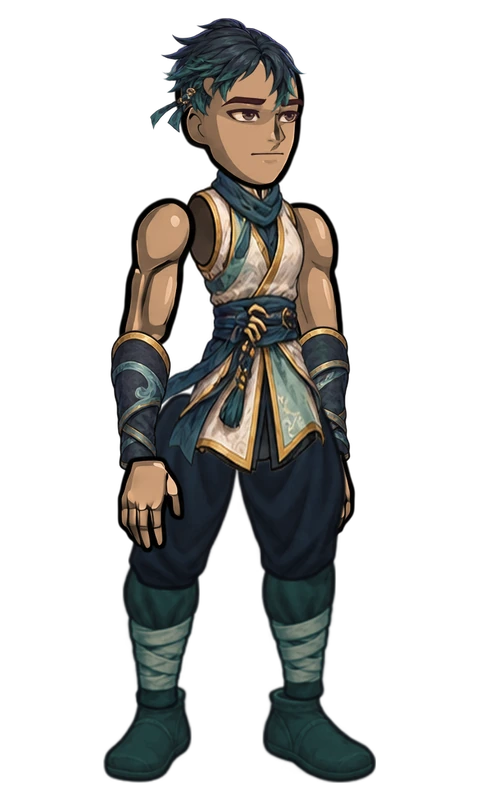
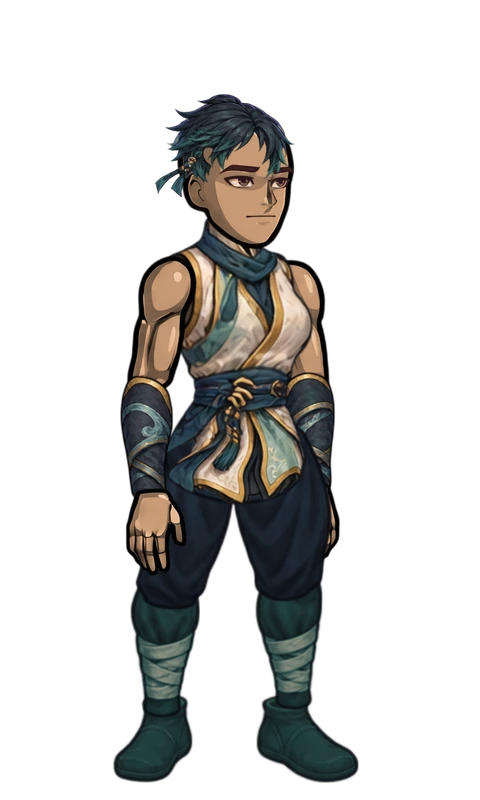
Corrige las proporciones de los doce representantes

Changed region(s): [[0.2188, 0.0, 0.7812, 1.0], [0.3125, 0.9688, 0.3438, 1.0]]

diff --git a/src/meta-ui.js b/src/meta-ui.js
@@ -1,7 +1,7 @@
 import { ENEMY_ACTIONS, ENEMY_ROSTER, EQUIPMENT, JUTSU_LIBRARY } from "./data.js?v=1.5.0"; import { ALL_MISSIONS, MISSIONS, SECONDARY_MISSIONS, STORY_SAGAS } from "./content/index.js?v=0.155.0";
 import { getDialogue, getMissionSceneDialogue } from "./dialogues.js?v=0.155.0";
 import { missionHasStep, missionState, missionStep, missionsForBoard, nextAvailableMission } from "./mission-system.js?v=0.155.0";
-import { LOCATION_CAST, NPCS, locationDialogue, npcByName, npcName } from "./npcs.js?v=0.173.0";
+import { LOCATION_CAST, NPCS, locationDialogue, npcByName, npcName } from "./npcs.js?v=0.174.0";
 import { DEBUG_CHECKPOINTS, abandonMissionProgress, actOnDoctorCipher, activeSaveSlot, affinityXpForElement, applyDebugCheckpoint, attributeTrainingLimit, cancelDoctorMission, chooseDoctorMissionRoute, chooseHideoutEntrance, completeDoctorMission, createCharacter, deleteSaveSlot, deliverBestiaryBook, derivedStats, isTechniqueLearned, levelUpReport, listSaveSlots, loadoutSlotsForLevel, markSecondaryMissionCompleted, masterIdForCharacter, normalizeSave, resetAttributes, resolveDoctorRiverPassage, selectMaster, selectNextAffinity, selectSaveSlot, spendAttribute, startDoctorMission, writeSave, xpForNextLevel } from "./save.js?v=0.171.0";
 import { createViewRuntime } from "./view-runtime.js?v=0.66.0";
 import { BASIC_ELEMENT_IDS, ELEMENTS, ELEMENT_RANK_LABELS, basicRequirements, canAccessElement, elementIcon, elementIconParts, elementName } from "./elements.js?v=0.20.0";

diff --git a/src/battle/scenes/battle-scene.js b/src/battle/scenes/battle-scene.js
@@ -1,6 +1,7 @@
 import { mountAccessibleBattleHud } from "../hud-accessibility.js?v=0.171.0";
 import { rememberCombatTexture } from "../combat-textures.js?v=1.0.0";
 import { upgradedTechnique } from "../../skills/progression.js?v=1.0.0";
+import { NPCS } from "../../npcs.js?v=0.174.0";
 import { queueTeleportObjects } from "../teleport-transition.js?v=1.2.0";
 import { clearSceneFilters, clearSceneParticles } from "../visual-resources.js?v=0.99.0";
 import { SEALS, BASE_ACTIONS, JUTSU_LIBRARY, ENEMY_ACTIONS, ENEMY_ROSTER } from "../../data.js?v=1.5.0";
@@ -116,7 +117,7 @@ export class BattleScene extends Phaser.Scene {
     if (missionStep(battleRuntime.activeMission, "choice")?.relicDecision) {
       if (!this.textures.exists("kagemori-investigation")) this.load.image("kagemori-investigation", SHARED_BATTLE_ASSETS.kagemori);
       const master = masterIdForCharacter(battleRuntime.activeSave.character);
-      if (!this.textures.exists(master)) this.load.image(master, `assets/modular/representatives/${master}.webp?v=1.0.0`);
+      if (!this.textures.exists(master)) this.load.image(master, NPCS[master].image);
     }
     // Texturas de combatientes generadas con el mismo SVG del Dojo.
     this.saveData = battleRuntime.activeSave;

diff --git a/src/battle/scenes/mission-epilogue-scene.js b/src/battle/scenes/mission-epilogue-scene.js
@@ -2,6 +2,7 @@ import { addNoticeText, mountSceneNotice } from "../scene-notices.js?v=0.173.0";
 import { BATTLE_ARENAS, HEIGHT, Phaser, WIDTH, battleRuntime } from "../runtime.js?v=0.91.0";
 import { stageVictory } from "../victory-transaction.js?v=0.95.0";
 import { rememberCombatTexture } from "../combat-textures.js?v=1.0.0";
+import { NPCS } from "../../npcs.js?v=0.174.0";
 
 export class MissionEpilogueScene extends Phaser.Scene {
   constructor() { super("epilogue"); }
@@ -12,7 +13,7 @@ export class MissionEpilogueScene extends Phaser.Scene {
     this.epilogueBackground = arena.texture;
     rememberCombatTexture(this, arena.texture);
     if (!this.textures.exists(arena.texture)) this.load.image(arena.texture, arena.file);
-    if (!this.textures.exists("sayo-kisaragi")) this.load.image("sayo-kisaragi", "assets/modular/representatives/sayo.webp?v=1.0.0");
+    if (!this.textures.exists("sayo-kisaragi")) this.load.image("sayo-kisaragi", NPCS.sayo.image);
   }
 
   create(data = {}) {

diff --git a/game.js b/game.js
@@ -1,4 +1,4 @@
-import { mountMetaUI } from "./src/meta-ui.js?v=0.173.0";
+import { mountMetaUI } from "./src/meta-ui.js?v=0.174.0";
 import { mountSaveRecovery } from "./src/ui/save-recovery.js?v=0.171.0";
 import { startCloudSaveSession } from "./src/save/cloud-session.js?v=0.171.0";
 import { mountCloudSaveStatus } from "./src/ui/meta/cloud-saves.js?v=0.171.0";
@@ -23,7 +23,7 @@ let gameLaunchRevision = 0;
 
 function loadBattleBundle() {
   if (!battleBundlePromise) battleBundlePromise = loadPhaser()
-    .then(() => import("./src/battle/bundle.js?v=0.173.0"))
+    .then(() => import("./src/battle/bundle.js?v=0.174.0"))
     .catch((error) => { battleBundlePromise = null; throw error; });
   return battleBundlePromise;
 }

diff --git a/src/battle/bundle.js b/src/battle/bundle.js
@@ -1,6 +1,6 @@
-import { KuroganeBattleScene as BattleScene } from "./scenes/kurogane-battle-scene.js?v=0.173.0";
+import { KuroganeBattleScene as BattleScene } from "./scenes/kurogane-battle-scene.js?v=0.174.0";
 import { MissionTravelScene } from "./scenes/mission-travel-scene.js?v=0.173.0";
-import { MissionEpilogueScene } from "./scenes/mission-epilogue-scene.js?v=0.173.0";
+import { MissionEpilogueScene } from "./scenes/mission-epilogue-scene.js?v=0.174.0";
 import { LevelUpScene } from "./scenes/level-up-scene.js?v=0.173.0";
 import { SecondaryResultsScene } from "./scenes/secondary-results-scene.js?v=0.171.0";
 import { ResultsScene } from "./scenes/results-scene.js?v=0.171.0";

diff --git a/src/battle/scenes/kurogane-battle-scene.js b/src/battle/scenes/kurogane-battle-scene.js
@@ -1,4 +1,4 @@
-import { GroupTrainingBattleScene } from "./group-training-battle-scene.js?v=0.173.0";
+import { GroupTrainingBattleScene } from "./group-training-battle-scene.js?v=0.174.0";
 import { BattleFeedbackMethods } from "./battle-feedback.js?v=0.171.0";
 import { battleRuntime } from "../runtime.js?v=0.91.0";
 import { hairTextureKey, createPlayerFighter, queuePlayerFighterTextures, destroyFighter, startPlayerBreathing, stopPlayerBreathing, startPlayerPreparing, stopPlayerPreparing, fighterAtlasKey, fighterCombatPortraitLayout, useFighterTextureRendering } from "../../fighters.js?v=0.171.0";

diff --git a/src/npcs.js b/src/npcs.js
@@ -1,7 +1,7 @@
 import { getDialogue } from "./dialogues.js?v=0.155.0";
 
 const npc = (id, name, title, reference) => Object.freeze({
-  id, name, title, reference, image: `assets/modular/representatives/${id}.webp?v=1.0.0`,
+  id, name, title, reference, image: `assets/modular/representatives/${id}.webp?v=1.1.0`,
   dialogue: Object.freeze({ intro: `npc.${id}.intro`, guide: `npc.${id}.guide` })
 });
 

diff --git a/src/battle/scenes/training-battle-scene.js b/src/battle/scenes/training-battle-scene.js
@@ -1,4 +1,4 @@
-import { ArenaBattleScene } from "./arena-battle-scene.js?v=0.173.0";
+import { ArenaBattleScene } from "./arena-battle-scene.js?v=0.174.0";
 import { battleRuntime, WIDTH, HEIGHT } from "../runtime.js?v=0.91.0";
 import { trainingActions, trainingDummyProfile } from "../../training.js?v=0.171.0";
 import { CHAKRA_BALANCE } from "../../chakra-balance.js?v=1.0.0";

diff --git a/src/battle/scenes/group-training-battle-scene.js b/src/battle/scenes/group-training-battle-scene.js
@@ -1,4 +1,4 @@
-import { TrainingBattleScene } from "./training-battle-scene.js?v=0.173.0";
+import { TrainingBattleScene } from "./training-battle-scene.js?v=0.174.0";
 import { applyBattleConsumable } from "../battle-inventory.js?v=0.171.0";
 import { BattleFlowMethods } from "./battle-flow.js?v=0.172.0";
 import { createEnemyState } from "../enemy-state.js?v=0.155.0";

diff --git a/src/battle/scenes/arena-battle-scene.js b/src/battle/scenes/arena-battle-scene.js
@@ -1,4 +1,4 @@
-import { BattleScene } from "./battle-scene.js?v=0.173.0";
+import { BattleScene } from "./battle-scene.js?v=0.174.0";
 import { arenaRivalProfile, ARENA_BACKGROUND } from "../../arena.js?v=0.171.0";
 import { showExhibitionResult } from "../exhibition-results.js?v=0.171.0";
 import { WIDTH, HEIGHT, battleRuntime } from "../runtime.js?v=0.91.0";

diff --git a/index.html b/index.html
@@ -132,7 +132,7 @@
     if (!mobileViewport.matches || compactEnabled) {
       const { installGameCursor } = await import("./src/game-cursor.js?v=0.5.0");
       installGameCursor(document.querySelector("main"));
-      await import("./game.js?v=0.173.0");
+      await import("./game.js?v=0.174.0");
     }
   </script>
 </body>

diff --git a/scripts/pack-npc-puppets.py b/scripts/pack-npc-puppets.py
@@ -5,7 +5,9 @@ import subprocess
 from pathlib import Path
 from io import BytesIO
 
-from PIL import Image, ImageOps
+import cv2
+import numpy as np
+from PIL import Image, ImageFilter, ImageOps
 
 
 ROOT = Path(__file__).resolve().parents[1]
@@ -16,6 +18,18 @@ ARM_COLUMNS = {
     "antebrazo_izquierdo": 3, "antebrazo_derecho": 4
 }
 BEARDS = {"daichi": (0, 94, 151, 75, 68), "iori": (1, 57, 136, 112, 96)}
+PORTRAIT_SCALE = .61
+# Source and destination rows of each sash in its individual costume.
+# The higher obi and the narrower belts fit between chest and hips differently.
+WAISTS = {
+    "ren": ((.51, .63), (.57, .68)), "daichi": ((.43, .57), (.55, .67)),
+    "mei": ((.47, .62), (.56, .69)), "sayo": ((.42, .57), (.53, .66)),
+    "hana": ((.38, .52), (.51, .63)), "yuna": ((.31, .45), (.48, .61)),
+    "kureha": ((.39, .55), (.51, .64)), "goro": ((.51, .67), (.57, .70)),
+    "riku": ((.46, .57), (.55, .66)), "nao": ((.48, .64), (.55, .69)),
+    "iori": ((.55, .64), (.59, .68)), "nami": ((.46, .59), (.55, .67))
+}
+SLEEVE_COLORS = {"yuna": ("#26362e", "#92986e"), "kureha": ("#221d29", "#665366")}
 
 # Hair boxes are relative to the top-left of the head in the corresponding rig.
 # They allow tied strands to extend down the back without shrinking the crown.
@@ -59,6 +73,14 @@ def extract(sheet, column, row, id):
     end = (row + 1) * y + (19 if id == "yuna" and column == 5 else 0)
     cell = sheet.crop((left, top, (column + 1) * x, min(end, sheet.height)))
     alpha = cell.getchannel("A").point(lambda value: max(0, min(255, round((value - 32) * 255 / 208))))
+    if column != 5:
+        # Adjacent ribbons and braids may reach into an arm cell. Only the
+        # connected garment is registered to the player's limb.
+        pixels = np.asarray(alpha)
+        _, labels, stats, _ = cv2.connectedComponentsWithStats((pixels > 32).astype(np.uint8))
+        component = 1 + int(np.argmax(stats[1:, cv2.CC_STAT_AREA]))
+        region = Image.fromarray((labels == component).astype(np.uint8) * 255)
+        alpha = Image.fromarray(np.where(np.asarray(region.filter(ImageFilter.MaxFilter(3))), pixels, 0))
     box = alpha.getbbox()
     if box is None:
         raise ValueError(f"Empty sprite cell {column}, {row}")
@@ -78,19 +100,67 @@ def clothing_tone(image, middle, highlight="#d4c8ae"):
     return colored
 
 
-def mix_forearm_skin(image, palette, id):
-    pixels = image.load()
-    for y in range(round(image.height * .58)):
-        for x in range(image.width):
-            r, g, b, a = pixels[x, y]
-            if a and max(r, g, b) - min(r, g, b) < 22 and min(r, g, b) > 72:
-                tint = palette[round(r * .2126 + g * .7152 + b * .0722)]
-                if id == "kureha":
-                    tint = tuple(round(value * .23) for value in tint)
-                elif id == "yuna":
-                    tint = tuple(round(value * weight) for value, weight in zip(tint, (.4, .59, .44)))
-                pixels[x, y] = (*tint, a)
-    return image
+def row_edges(alpha):
+    visible = np.asarray(alpha) > 32
+    rows = np.flatnonzero(visible.any(axis=1))
+    left = np.argmax(visible, axis=1)
+    right = visible.shape[1] - 1 - np.argmax(visible[:, ::-1], axis=1)
+    positions = np.arange(visible.shape[0])
+    return np.interp(positions, rows, left[rows]), np.interp(positions, rows, right[rows])
+
+
+def smooth_profile(edge, radius):
+    samples = np.pad(edge, radius, mode="edge")
+    return np.convolve(samples, np.hanning(2 * radius + 1) / radius, mode="valid")
+
+
+def fitted_material(donor, mannequin, target_rows=(0, 1), source_rows=(0, 1)):
+    """Project the cloth between landmarks, keeping the exact mannequin alpha."""
+    width, height = mannequin.size
+    template_alpha = mannequin.getchannel("A")
+    source_alpha = donor.getchannel("A")
+    left, right = row_edges(template_alpha)
+    source_left, source_right = row_edges(source_alpha)
+    rows = np.interp(np.linspace(0, 1, height), target_rows, source_rows) * (donor.height - 1)
+    if len(target_rows) > 2:
+        # Do not drag lapels or belts sideways with each individual tassel.
+        rows = smooth_profile(rows, round(height * .035))
+        left, right = (smooth_profile(edge, round(height * .075)) for edge in (left, right))
+        source_left, source_right = (
+            smooth_profile(edge, round(donor.height * .09)) for edge in (source_left, source_right)
+        )
+    starts = np.interp(rows, np.arange(donor.height), source_left)
+    ends = np.interp(rows, np.arange(donor.height), source_right)
+    fraction = np.clip((np.arange(width) - left[:, None]) / np.maximum(1, right - left)[:, None], 0, 1)
+    cols = starts[:, None] + fraction * (ends - starts)[:, None]
+    material = Image.fromarray(cv2.remap(
+        np.asarray(donor.convert("RGBa")), cols.astype(np.float32),
+        np.repeat(rows[:, None], width, axis=1).astype(np.float32),
+        cv2.INTER_LINEAR, borderMode=cv2.BORDER_REPLICATE
+    ), mode="RGBa").convert("RGBA")
+    # Keep the reference linework at the outside of each joint and garment.
+    interior = template_alpha.filter(ImageFilter.MinFilter(5))
+    interior = Image.fromarray(np.minimum(np.asarray(interior), np.asarray(material.getchannel("A"))))
+    art = Image.composite(material, mannequin, interior)
+    art.putalpha(template_alpha)
+    return art
+
+
+def native_cuff(art, base, donor, template, id):
+    """Use the stock anatomy wherever the illustrated arm has a gray guide."""
+    if id in SLEEVE_COLORS:
+        base = clothing_tone(template, *SLEEVE_COLORS[id])
+    donor_rgb = np.asarray(donor.convert("RGB"), dtype=np.int16)
+    guide = (np.ptp(donor_rgb, axis=2) < 24) & (donor_rgb.min(axis=2) > 76)
+    guide[round(donor.height * .56):] = False
+    mask = Image.fromarray((guide * 255).astype(np.uint8)).convert("RGBA")
+    mask.putalpha(donor.getchannel("A"))
+    gray = Image.new("RGBA", base.size, "black")
+    gray.putalpha(base.getchannel("A"))
+    mask = fitted_material(mask, gray).convert("L").filter(ImageFilter.MaxFilter(5))
+    result = Image.composite(base, art, mask)
+    result.putalpha(base.getchannel("A"))
+    return result
 
 
 def draw(image, piece, center, size):
@@ -100,7 +170,7 @@ def draw(image, piece, center, size):
     ))
 
 
-def assemble(sheet, row, profile, rigs, palettes, beards):
+def assemble(sheet, row, profile, rigs, palettes, beards, sleeve_fabric):
     id, body, tone, expression, pants, shoes, hair_box, bare = profile
     rig = rigs[body]
     palette = palettes[tone]
@@ -113,19 +183,27 @@ def assemble(sheet, row, profile, rigs, palettes, beards):
         name = part["id"]
         size = (part["width"] * part.get("scaleX", 1), part["height"] * part.get("scaleY", 1))
         center = (part["x"] + offset_x, part["y"] + offset_y)
+        native = Image.open(body_path / f"{name}.png").convert("RGBA")
         if name == "torso":
-            art = extract(sheet, 0, row, id)
+            template = Image.open(outfit_path / "torso.png").convert("RGBA")
+            source_waist, target_waist = WAISTS[id]
+            underlay = clothing_tone(template, pants, "#8d8279")
+            art = fitted_material(extract(sheet, 0, row, id), underlay,
+                                  (0, .10, .23, *target_waist, 1), (0, .10, .23, *source_waist, 1))
         elif name in ARM_COLUMNS and not (bare and name.startswith("brazo")):
-            art = extract(sheet, ARM_COLUMNS[name], row, id)
-            if id in ("hana", "yuna", "kureha", "goro") and name.startswith("antebrazo"):
-                art = mix_forearm_skin(art, palette, id)
-            if id in ("yuna", "kureha") and name.startswith("brazo"):
-                colors = ("#253629", "#707750") if id == "yuna" else ("#241c2d", "#59475d")
-                art = clothing_tone(art, *colors)
+            base = skin(native, palette)
+            donor = extract(sheet, ARM_COLUMNS[name], row, id)
+            if id in sleeve_fabric and name.startswith("brazo"):
+                fabric = clothing_tone(sleeve_fabric[id][name], *SLEEVE_COLORS[id])
+                art = fitted_material(fabric, clothing_tone(native, *SLEEVE_COLORS[id]))
+            else:
+                art = fitted_material(donor, native)
+                if name.startswith("antebrazo") and id in ("hana", "yuna", "kureha", "goro"):
+                    art = native_cuff(art, base, donor, native, id)
         elif name in outfit:
             art = clothing_tone(Image.open(outfit_path / f"{name}.png").convert("RGBA"), shoes if name.startswith(("pie_", "pierna_")) else pants)
         else:
-            art = skin(Image.open(body_path / f"{name}.png").convert("RGBA"), palette)
+            art = skin(native, palette)
         draw(image, art, center, size)
 
     head = rig["byId"]["cabeza"]
@@ -142,12 +220,16 @@ def assemble(sheet, row, profile, rigs, palettes, beards):
     x, y, w, h = hair_box
     draw(image, extract(sheet, 5, row, id), (top[0] + x + w / 2, top[1] + y + h / 2), (w, h))
 
-    # Keep the same head-to-ground proportions. Leave safe transparent margins.
-    bounds = image.getbbox()
-    figure = image.crop(bounds)
-    figure.thumbnail((444, 765), Image.Resampling.LANCZOS)
+    # Use one scale and a fixed footprint per rig. Hair cannot resize or
+    # recenter a body, even for a high bun or a long side braid.
+    ground = max(part["y"] + part["height"] / 2 for part in rig["layers"] if part["id"].startswith("pie_"))
+    crop_width = round(480 / PORTRAIT_SCALE)
+    crop_height = round(800 / PORTRAIT_SCALE)
+    left = offset_x - crop_width // 2 - 23
+    bottom = round(offset_y + ground + 17 / PORTRAIT_SCALE)
+    figure = image.crop((left, bottom - crop_height, left + crop_width, bottom))
     canvas = Image.new("RGBA", (480, 800))
-    canvas.alpha_composite(figure, ((480 - figure.width) // 2, 783 - figure.height))
+    canvas.alpha_composite(figure.resize(canvas.size, Image.Resampling.LANCZOS))
     encoded = BytesIO()
     canvas.save(encoded, format="WEBP", quality=91, method=6)
     temporary = OUTPUT / f"{id}.webp.tmp"
@@ -157,13 +239,21 @@ def assemble(sheet, row, profile, rigs, palettes, beards):
 
 def main():
     data = rig_data()
-    with Image.open(OUTPUT / "source" / "barbas.png") as source:
-        beards = source.convert("RGBA")
-    for name, profiles in CAST.items():
+    def load_sheet(name):
         with Image.open(OUTPUT / "source" / f"{name}.png") as source:
-            sheet = source.convert("RGBA")
+            return source.convert("RGBA")
+
+    beards = load_sheet("barbas")
+    sheets = {name: load_sheet(name) for name in CAST}
+    sleeves = {
+        "yuna": {name: extract(sheets["cuartel-dojo-biblioteca"], column, 3, "sayo")
+                 for name, column in ARM_COLUMNS.items() if name.startswith("brazo")},
+        "kureha": {name: extract(sheets["cuartel-dojo-biblioteca"], column, 1, "daichi")
+                   for name, column in ARM_COLUMNS.items() if name.startswith("brazo")}
+    }
+    for name, profiles in CAST.items():
         for row, profile in enumerate(profiles):
-            assemble(sheet, row, profile, data["rigs"], data["palettes"], beards)
+            assemble(sheets[name], row, profile, data["rigs"], data["palettes"], beards, sleeves)
 
 
 if __name__ == "__main__":
